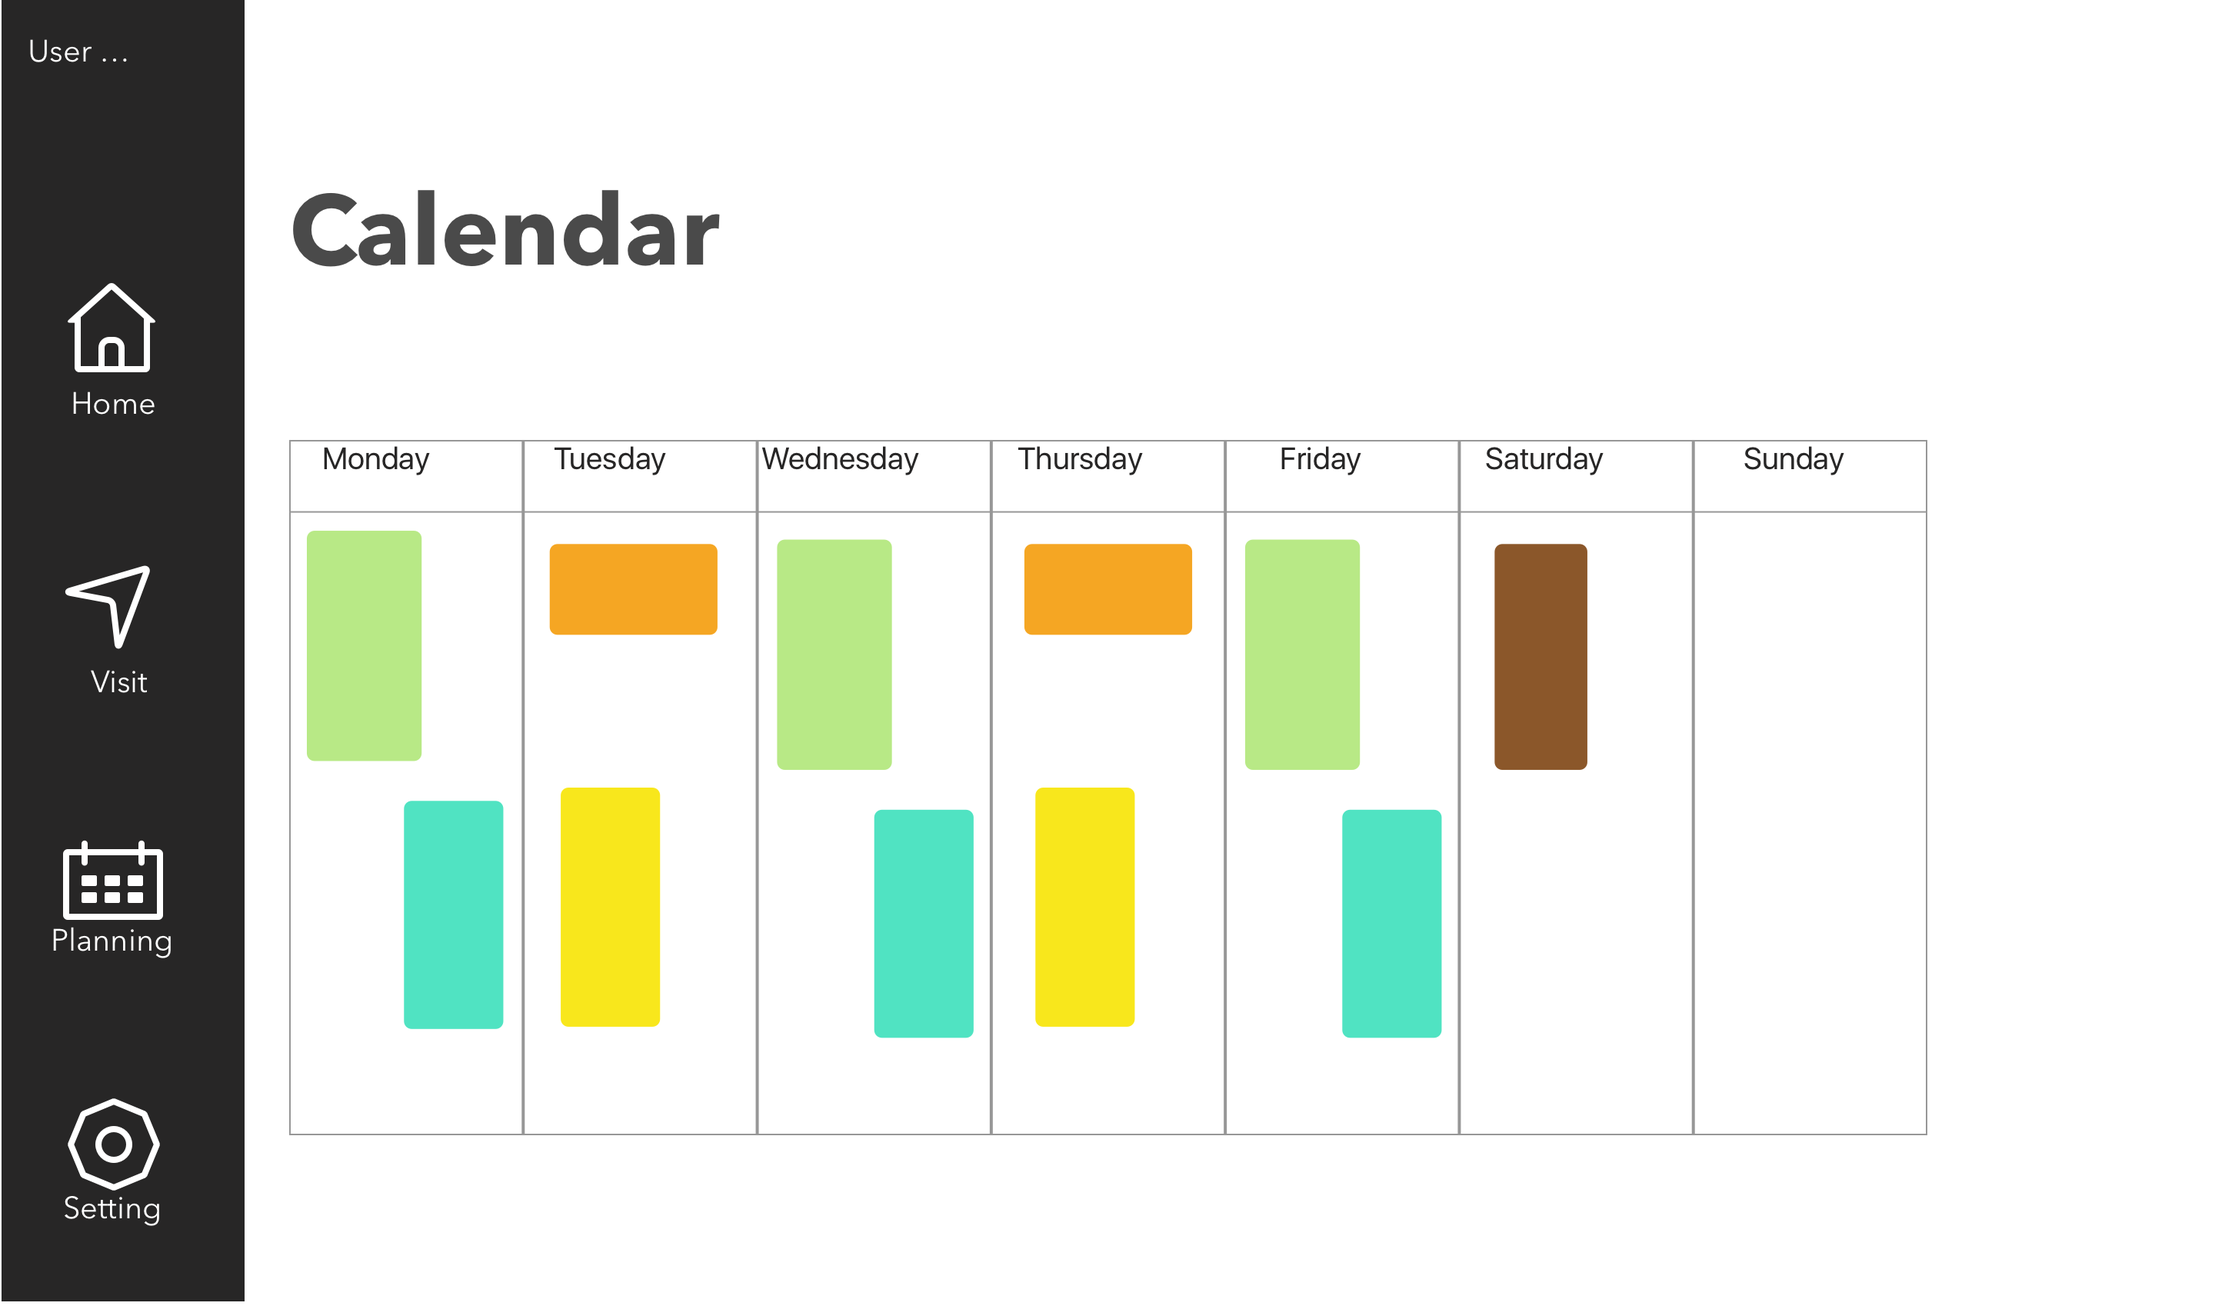
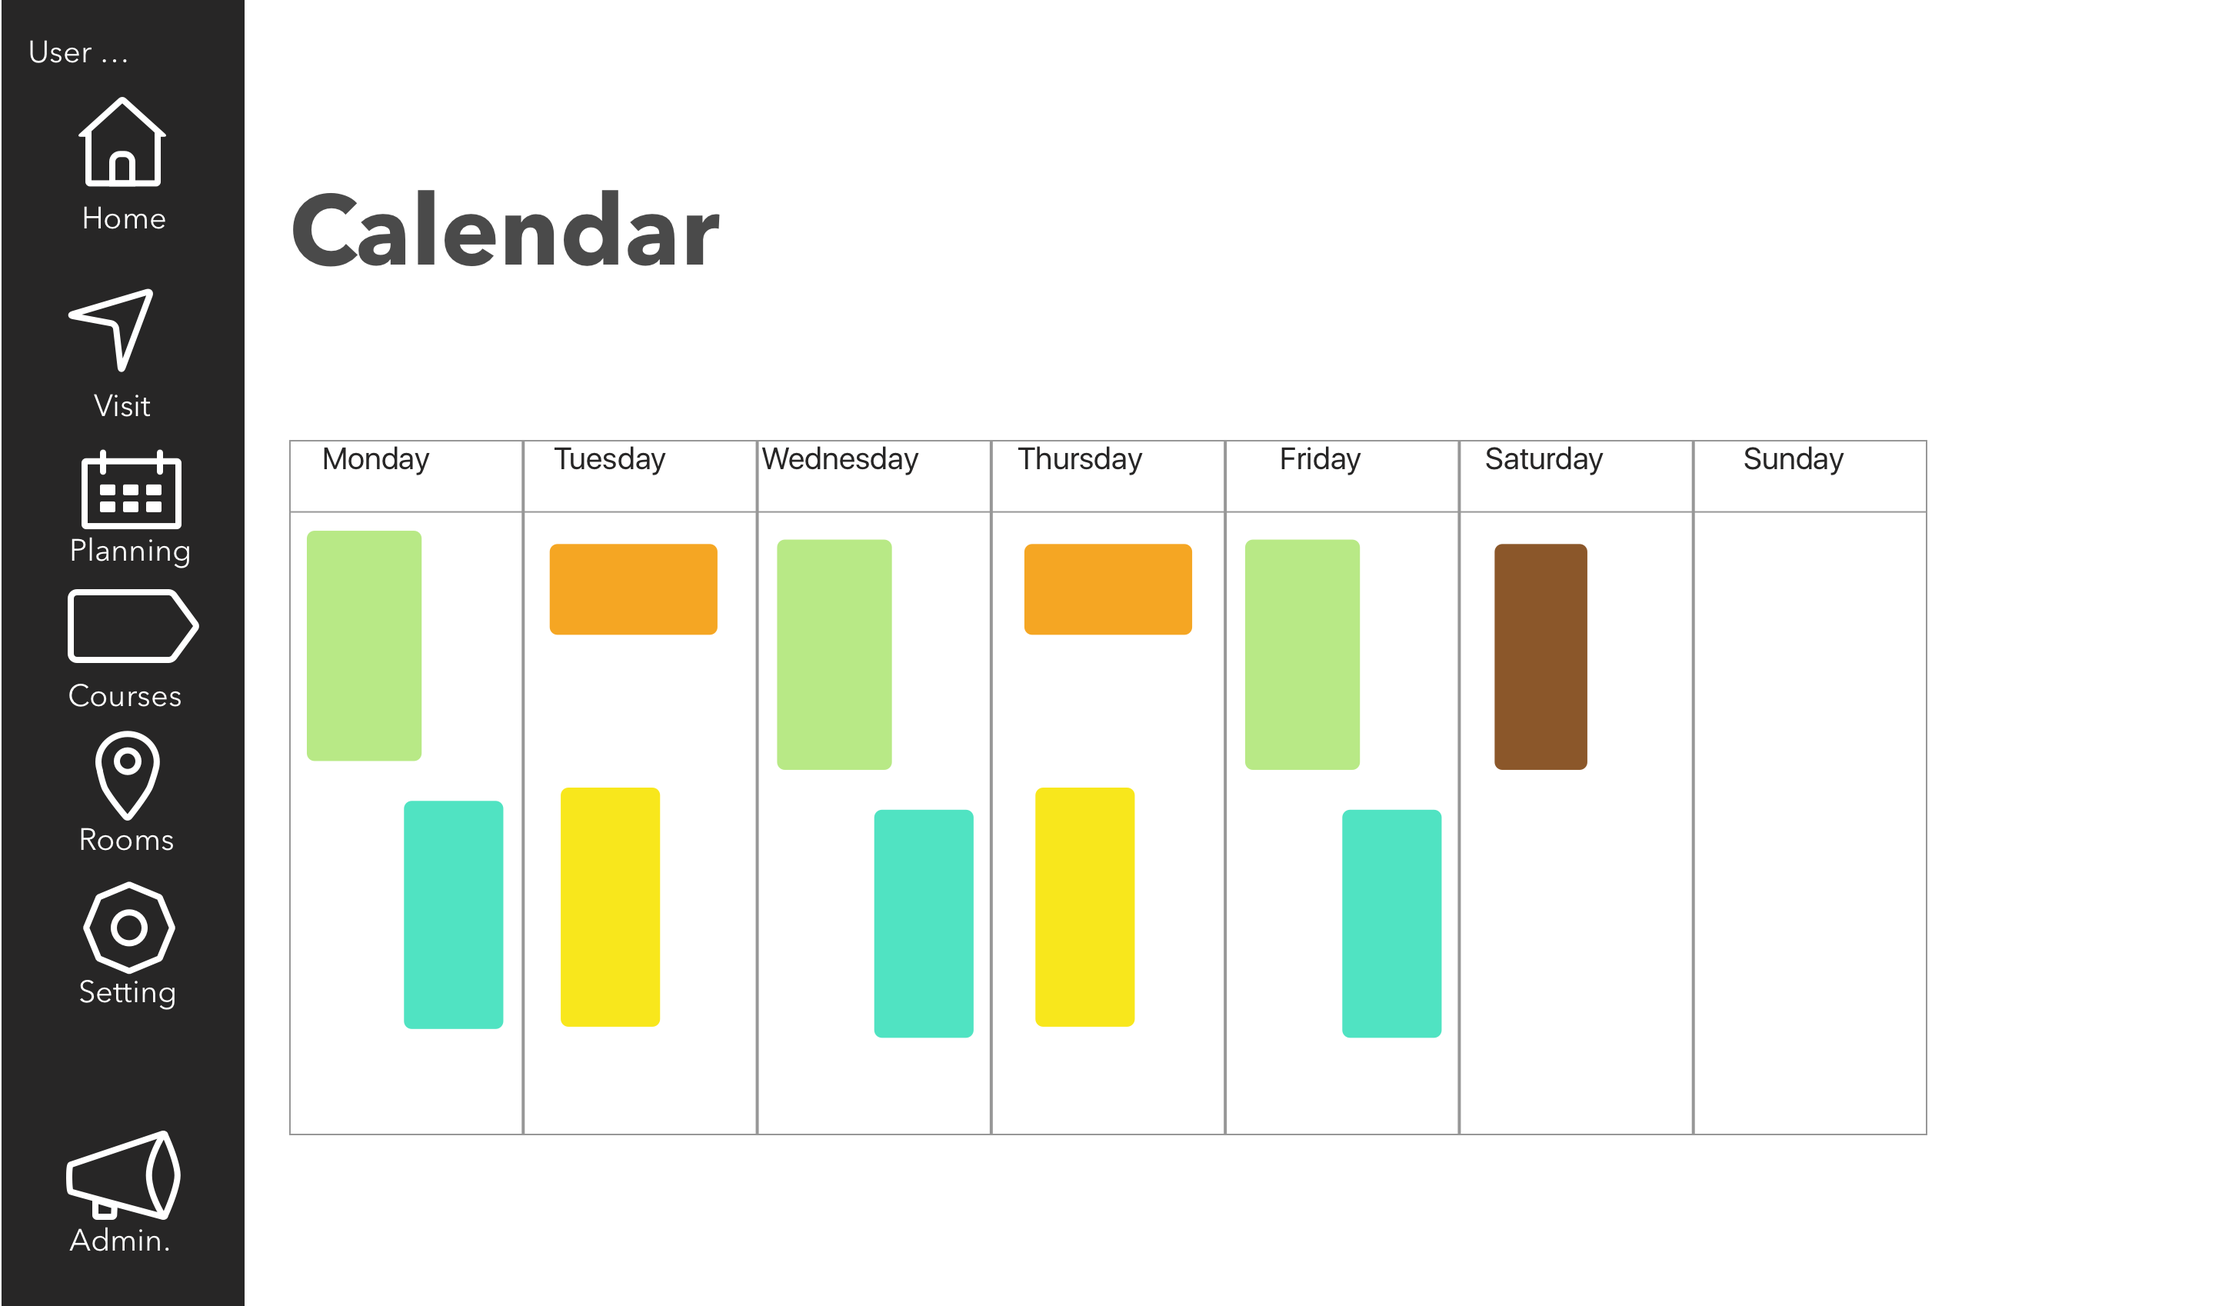
web update

diff --git a/web/dashboard.html b/web/dashboard.html
@@ -5,9 +5,9 @@
 <link href="css/main.css" rel="stylesheet" type="text/css"/>
 <style>
 #main-artboard-container { width: 1440px; display: block }
-#main-artboard-image { width: 1440px; height: 2150px; background: url("images/dashboard.png") no-repeat; }
+#main-artboard-image { width: 1440px; height: 3595px; background: url("images/dashboard.png") no-repeat; }
 @media (-webkit-min-device-pixel-ratio: 2), (min--moz-device-pixel-ratio: 2), (-o-min-device-pixel-ratio: 2/1), (min-resolution: 192dpi), (min-resolution: 2dppx) {
-  #main-artboard-image { background-image: url("images/dashboard@2x.png"); background-size: 1440px 2150px; }
+  #main-artboard-image { background-image: url("images/dashboard@2x.png"); background-size: 1440px 3595px; }
 }
 </style>
 <script src="js/main.js" type="text/javascript"></script>
@@ -16,11 +16,18 @@
 <main>
   <div id="main-artboard-container" class="artboard-container">
     <div id="main-artboard-image" class="artboard-image"></div>
+    <a href="courses.html" class="hotspot" style="left:147px; top:1779px; width:508px; height:87px"></a>
+    <a href="courses.html" class="hotspot" style="left:909px; top:2331px; width:422px; height:118px"></a>
+    <a href="rooms.html" class="hotspot" style="left:147px; top:2625px; width:212px; height:87px"></a>
+    <a href="rooms.html" class="hotspot" style="left:909px; top:3177px; width:422px; height:118px"></a>
     <a href="calendar.html" class="hotspot" style="left:188px; top:1018px; width:210px; height:66px"></a>
-    <a href="index.html" class="hotspot" style="left:44px; top:184px; width:58px; height:92px"></a>
-    <a href="settings.html" class="hotspot" style="left:41px; top:716px; width:65px; height:83px"></a>
-    <a href="calendar.html" class="hotspot" style="left:33px; top:548px; width:80px; height:77px"></a>
     <a href="calendar.html" class="hotspot" style="left:917px; top:1536px; width:422px; height:118px"></a>
+    <a href="administration.html" class="hotspot" style="left:45px; top:737px; width:71px; height:83px"></a>
+    <a href="settings.html" class="hotspot" style="left:51px; top:575px; width:65px; height:84px"></a>
+    <a href="rooms.html" class="hotspot" style="left:51px; top:477px; width:65px; height:82px"></a>
+    <a href="courses.html" class="hotspot" style="left:44px; top:383px; width:86px; height:83px"></a>
+    <a href="calendar.html" class="hotspot" style="left:45px; top:294px; width:80px; height:78px"></a>
+    <a href="dashboard.html" class="hotspot" style="left:51px; top:63px; width:58px; height:93px"></a>
   </div>
 </main>
 </body>

diff --git a/web/administration-(add).html b/web/administration-(add).html
@@ -1,0 +1,34 @@
+<!DOCTYPE html>
+<head>
+<title>administration (add)</title>
+<meta name="viewport" content="width=device-width, minimum-scale=1.0, maximum-scale=1.0" />
+<link href="css/main.css" rel="stylesheet" type="text/css"/>
+<style>
+#main-artboard-container { width: 1440px; display: block }
+#main-artboard-image { width: 1440px; height: 849px; background: url("images/administration_(add).png") no-repeat; }
+@media (-webkit-min-device-pixel-ratio: 2), (min--moz-device-pixel-ratio: 2), (-o-min-device-pixel-ratio: 2/1), (min-resolution: 192dpi), (min-resolution: 2dppx) {
+  #main-artboard-image { background-image: url("images/administration_(add)@2x.png"); background-size: 1440px 849px; }
+}
+</style>
+<script src="js/main.js" type="text/javascript"></script>
+</head>
+<body>
+<main>
+  <div id="main-artboard-container" class="artboard-container">
+    <div id="main-artboard-image" class="artboard-image"></div>
+    <a href="decouverte-mobile.html" class="hotspot" style="left:188px; top:288px; width:183px; height:50px"></a>
+    <a href="decouverte-mobile.html" class="hotspot" style="left:188px; top:369px; width:183px; height:50px"></a>
+    <a href="administration-(list).html" class="hotspot" style="left:188px; top:531px; width:183px; height:50px"></a>
+    <a href="administration-(list).html" class="hotspot" style="left:188px; top:612px; width:183px; height:50px"></a>
+    <a href="decouverte-mobile.html" class="hotspot" style="left:188px; top:450px; width:183px; height:50px"></a>
+    <a href="administration-(list).html" class="hotspot" style="left:188px; top:693px; width:183px; height:50px"></a>
+    <a href="administration.html" class="hotspot" style="left:45px; top:737px; width:71px; height:83px"></a>
+    <a href="settings.html" class="hotspot" style="left:51px; top:575px; width:65px; height:84px"></a>
+    <a href="rooms.html" class="hotspot" style="left:51px; top:477px; width:65px; height:82px"></a>
+    <a href="courses.html" class="hotspot" style="left:44px; top:383px; width:86px; height:83px"></a>
+    <a href="calendar.html" class="hotspot" style="left:45px; top:294px; width:80px; height:78px"></a>
+    <a href="dashboard.html" class="hotspot" style="left:51px; top:63px; width:58px; height:93px"></a>
+  </div>
+</main>
+</body>
+</html>

diff --git a/web/administration-(list).html b/web/administration-(list).html
@@ -1,0 +1,34 @@
+<!DOCTYPE html>
+<head>
+<title>administration (list)</title>
+<meta name="viewport" content="width=device-width, minimum-scale=1.0, maximum-scale=1.0" />
+<link href="css/main.css" rel="stylesheet" type="text/css"/>
+<style>
+#main-artboard-container { width: 1440px; display: block }
+#main-artboard-image { width: 1440px; height: 849px; background: url("images/administration_(list).png") no-repeat; }
+@media (-webkit-min-device-pixel-ratio: 2), (min--moz-device-pixel-ratio: 2), (-o-min-device-pixel-ratio: 2/1), (min-resolution: 192dpi), (min-resolution: 2dppx) {
+  #main-artboard-image { background-image: url("images/administration_(list)@2x.png"); background-size: 1440px 849px; }
+}
+</style>
+<script src="js/main.js" type="text/javascript"></script>
+</head>
+<body>
+<main>
+  <div id="main-artboard-container" class="artboard-container">
+    <div id="main-artboard-image" class="artboard-image"></div>
+    <a href="administration-(add).html" class="hotspot" style="left:188px; top:288px; width:183px; height:50px"></a>
+    <a href="administration-(add).html" class="hotspot" style="left:188px; top:369px; width:183px; height:50px"></a>
+    <a href="decouverte-mobile.html" class="hotspot" style="left:188px; top:531px; width:183px; height:50px"></a>
+    <a href="decouverte-mobile.html" class="hotspot" style="left:188px; top:612px; width:183px; height:50px"></a>
+    <a href="administration-(add).html" class="hotspot" style="left:188px; top:450px; width:183px; height:50px"></a>
+    <a href="decouverte-mobile.html" class="hotspot" style="left:188px; top:693px; width:183px; height:50px"></a>
+    <a href="administration.html" class="hotspot" style="left:45px; top:737px; width:71px; height:83px"></a>
+    <a href="settings.html" class="hotspot" style="left:51px; top:575px; width:65px; height:84px"></a>
+    <a href="rooms.html" class="hotspot" style="left:51px; top:477px; width:65px; height:82px"></a>
+    <a href="courses.html" class="hotspot" style="left:44px; top:383px; width:86px; height:83px"></a>
+    <a href="calendar.html" class="hotspot" style="left:45px; top:294px; width:80px; height:78px"></a>
+    <a href="dashboard.html" class="hotspot" style="left:51px; top:63px; width:58px; height:93px"></a>
+  </div>
+</main>
+</body>
+</html>

diff --git a/web/administration.html b/web/administration.html
@@ -1,0 +1,34 @@
+<!DOCTYPE html>
+<head>
+<title>administration</title>
+<meta name="viewport" content="width=device-width, minimum-scale=1.0, maximum-scale=1.0" />
+<link href="css/main.css" rel="stylesheet" type="text/css"/>
+<style>
+#main-artboard-container { width: 1440px; display: block }
+#main-artboard-image { width: 1440px; height: 849px; background: url("images/administration.png") no-repeat; }
+@media (-webkit-min-device-pixel-ratio: 2), (min--moz-device-pixel-ratio: 2), (-o-min-device-pixel-ratio: 2/1), (min-resolution: 192dpi), (min-resolution: 2dppx) {
+  #main-artboard-image { background-image: url("images/administration@2x.png"); background-size: 1440px 849px; }
+}
+</style>
+<script src="js/main.js" type="text/javascript"></script>
+</head>
+<body>
+<main>
+  <div id="main-artboard-container" class="artboard-container">
+    <div id="main-artboard-image" class="artboard-image"></div>
+    <a href="administration-(add).html" class="hotspot" style="left:188px; top:288px; width:183px; height:50px"></a>
+    <a href="administration-(add).html" class="hotspot" style="left:188px; top:369px; width:183px; height:50px"></a>
+    <a href="administration-(list).html" class="hotspot" style="left:188px; top:531px; width:183px; height:50px"></a>
+    <a href="administration-(list).html" class="hotspot" style="left:188px; top:612px; width:183px; height:50px"></a>
+    <a href="administration-(add).html" class="hotspot" style="left:188px; top:450px; width:183px; height:50px"></a>
+    <a href="administration-(list).html" class="hotspot" style="left:188px; top:693px; width:183px; height:50px"></a>
+    <a href="administration.html" class="hotspot" style="left:45px; top:737px; width:71px; height:83px"></a>
+    <a href="settings.html" class="hotspot" style="left:51px; top:575px; width:65px; height:84px"></a>
+    <a href="rooms.html" class="hotspot" style="left:51px; top:477px; width:65px; height:82px"></a>
+    <a href="courses.html" class="hotspot" style="left:44px; top:383px; width:86px; height:83px"></a>
+    <a href="calendar.html" class="hotspot" style="left:45px; top:294px; width:80px; height:78px"></a>
+    <a href="dashboard.html" class="hotspot" style="left:51px; top:63px; width:58px; height:93px"></a>
+  </div>
+</main>
+</body>
+</html>

diff --git a/web/courses.html b/web/courses.html
@@ -1,0 +1,28 @@
+<!DOCTYPE html>
+<head>
+<title>courses</title>
+<meta name="viewport" content="width=device-width, minimum-scale=1.0, maximum-scale=1.0" />
+<link href="css/main.css" rel="stylesheet" type="text/css"/>
+<style>
+#main-artboard-container { width: 1440px; display: block }
+#main-artboard-image { width: 1440px; height: 849px; background: url("images/courses.png") no-repeat; }
+@media (-webkit-min-device-pixel-ratio: 2), (min--moz-device-pixel-ratio: 2), (-o-min-device-pixel-ratio: 2/1), (min-resolution: 192dpi), (min-resolution: 2dppx) {
+  #main-artboard-image { background-image: url("images/courses@2x.png"); background-size: 1440px 849px; }
+}
+</style>
+<script src="js/main.js" type="text/javascript"></script>
+</head>
+<body>
+<main>
+  <div id="main-artboard-container" class="artboard-container">
+    <div id="main-artboard-image" class="artboard-image"></div>
+    <a href="administration.html" class="hotspot" style="left:45px; top:737px; width:71px; height:83px"></a>
+    <a href="settings.html" class="hotspot" style="left:51px; top:575px; width:65px; height:84px"></a>
+    <a href="rooms.html" class="hotspot" style="left:51px; top:477px; width:65px; height:82px"></a>
+    <a href="courses.html" class="hotspot" style="left:44px; top:383px; width:86px; height:83px"></a>
+    <a href="calendar.html" class="hotspot" style="left:45px; top:294px; width:80px; height:78px"></a>
+    <a href="dashboard.html" class="hotspot" style="left:51px; top:63px; width:58px; height:93px"></a>
+  </div>
+</main>
+</body>
+</html>

diff --git a/web/rooms.html b/web/rooms.html
@@ -1,0 +1,28 @@
+<!DOCTYPE html>
+<head>
+<title>rooms</title>
+<meta name="viewport" content="width=device-width, minimum-scale=1.0, maximum-scale=1.0" />
+<link href="css/main.css" rel="stylesheet" type="text/css"/>
+<style>
+#main-artboard-container { width: 1440px; display: block }
+#main-artboard-image { width: 1440px; height: 849px; background: url("images/rooms.png") no-repeat; }
+@media (-webkit-min-device-pixel-ratio: 2), (min--moz-device-pixel-ratio: 2), (-o-min-device-pixel-ratio: 2/1), (min-resolution: 192dpi), (min-resolution: 2dppx) {
+  #main-artboard-image { background-image: url("images/rooms@2x.png"); background-size: 1440px 849px; }
+}
+</style>
+<script src="js/main.js" type="text/javascript"></script>
+</head>
+<body>
+<main>
+  <div id="main-artboard-container" class="artboard-container">
+    <div id="main-artboard-image" class="artboard-image"></div>
+    <a href="administration.html" class="hotspot" style="left:45px; top:737px; width:71px; height:83px"></a>
+    <a href="settings.html" class="hotspot" style="left:51px; top:575px; width:65px; height:84px"></a>
+    <a href="rooms.html" class="hotspot" style="left:51px; top:477px; width:65px; height:82px"></a>
+    <a href="courses.html" class="hotspot" style="left:44px; top:383px; width:86px; height:83px"></a>
+    <a href="calendar.html" class="hotspot" style="left:45px; top:294px; width:80px; height:78px"></a>
+    <a href="dashboard.html" class="hotspot" style="left:51px; top:63px; width:58px; height:93px"></a>
+  </div>
+</main>
+</body>
+</html>

diff --git a/web/index-(login).html b/web/index-(login).html
@@ -1,0 +1,24 @@
+<!DOCTYPE html>
+<head>
+<title>index (login)</title>
+<meta name="viewport" content="width=device-width, minimum-scale=1.0, maximum-scale=1.0" />
+<link href="css/main.css" rel="stylesheet" type="text/css"/>
+<style>
+#main-artboard-container { width: 1440px; display: block }
+#main-artboard-image { width: 1440px; height: 2639px; background: url("images/index_(login).png") no-repeat; }
+@media (-webkit-min-device-pixel-ratio: 2), (min--moz-device-pixel-ratio: 2), (-o-min-device-pixel-ratio: 2/1), (min-resolution: 192dpi), (min-resolution: 2dppx) {
+  #main-artboard-image { background-image: url("images/index_(login)@2x.png"); background-size: 1440px 2639px; }
+}
+</style>
+<script src="js/main.js" type="text/javascript"></script>
+</head>
+<body>
+<main>
+  <div id="main-artboard-container" class="artboard-container">
+    <div id="main-artboard-image" class="artboard-image"></div>
+    <a href="dashboard.html" class="hotspot" style="left:16px; top:293px; width:126px; height:66px"></a>
+    <a href="dashboard.html" class="hotspot" style="left:719px; top:351px; width:185px; height:57px"></a>
+  </div>
+</main>
+</body>
+</html>

diff --git a/web/calendar.html b/web/calendar.html
@@ -16,9 +16,12 @@
 <main>
   <div id="main-artboard-container" class="artboard-container">
     <div id="main-artboard-image" class="artboard-image"></div>
-    <a href="index.html" class="hotspot" style="left:44px; top:184px; width:58px; height:92px"></a>
-    <a href="settings.html" class="hotspot" style="left:41px; top:716px; width:65px; height:83px"></a>
-    <a href="calendar.html" class="hotspot" style="left:33px; top:548px; width:80px; height:77px"></a>
+    <a href="administration.html" class="hotspot" style="left:45px; top:737px; width:71px; height:83px"></a>
+    <a href="settings.html" class="hotspot" style="left:51px; top:575px; width:65px; height:84px"></a>
+    <a href="rooms.html" class="hotspot" style="left:51px; top:477px; width:65px; height:82px"></a>
+    <a href="courses.html" class="hotspot" style="left:44px; top:383px; width:86px; height:83px"></a>
+    <a href="calendar.html" class="hotspot" style="left:45px; top:294px; width:80px; height:78px"></a>
+    <a href="dashboard.html" class="hotspot" style="left:51px; top:63px; width:58px; height:93px"></a>
   </div>
 </main>
 </body>

diff --git a/web/settings.html b/web/settings.html
@@ -16,9 +16,12 @@
 <main>
   <div id="main-artboard-container" class="artboard-container">
     <div id="main-artboard-image" class="artboard-image"></div>
-    <a href="index.html" class="hotspot" style="left:43px; top:180px; width:58px; height:92px"></a>
-    <a href="settings.html" class="hotspot" style="left:40px; top:712px; width:65px; height:83px"></a>
-    <a href="calendar.html" class="hotspot" style="left:32px; top:544px; width:80px; height:77px"></a>
+    <a href="administration.html" class="hotspot" style="left:45px; top:737px; width:71px; height:83px"></a>
+    <a href="settings.html" class="hotspot" style="left:51px; top:575px; width:65px; height:84px"></a>
+    <a href="rooms.html" class="hotspot" style="left:51px; top:477px; width:65px; height:82px"></a>
+    <a href="courses.html" class="hotspot" style="left:44px; top:383px; width:86px; height:83px"></a>
+    <a href="calendar.html" class="hotspot" style="left:45px; top:294px; width:80px; height:78px"></a>
+    <a href="dashboard.html" class="hotspot" style="left:51px; top:63px; width:58px; height:93px"></a>
   </div>
 </main>
 </body>

diff --git a/web/index.html b/web/index.html
@@ -16,6 +16,7 @@
 <main>
   <div id="main-artboard-container" class="artboard-container">
     <div id="main-artboard-image" class="artboard-image"></div>
+    <a href="index-(login).html" class="hotspot" style="left:20px; top:533px; width:182px; height:66px"></a>
     <a href="dashboard.html" class="hotspot" style="left:16px; top:293px; width:126px; height:66px"></a>
   </div>
 </main>
